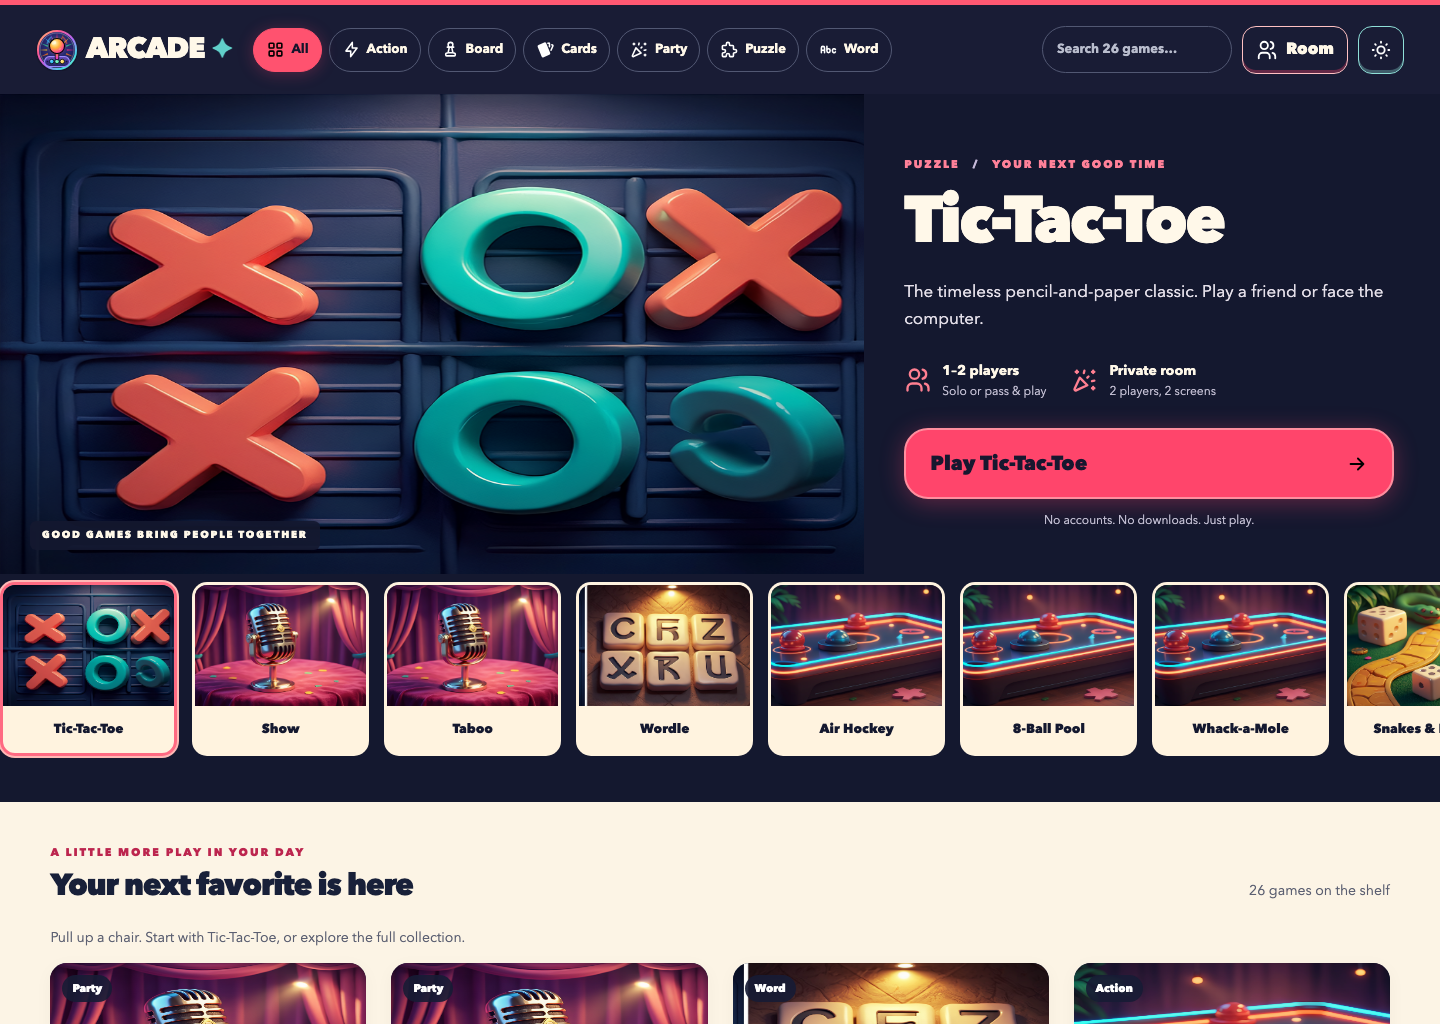
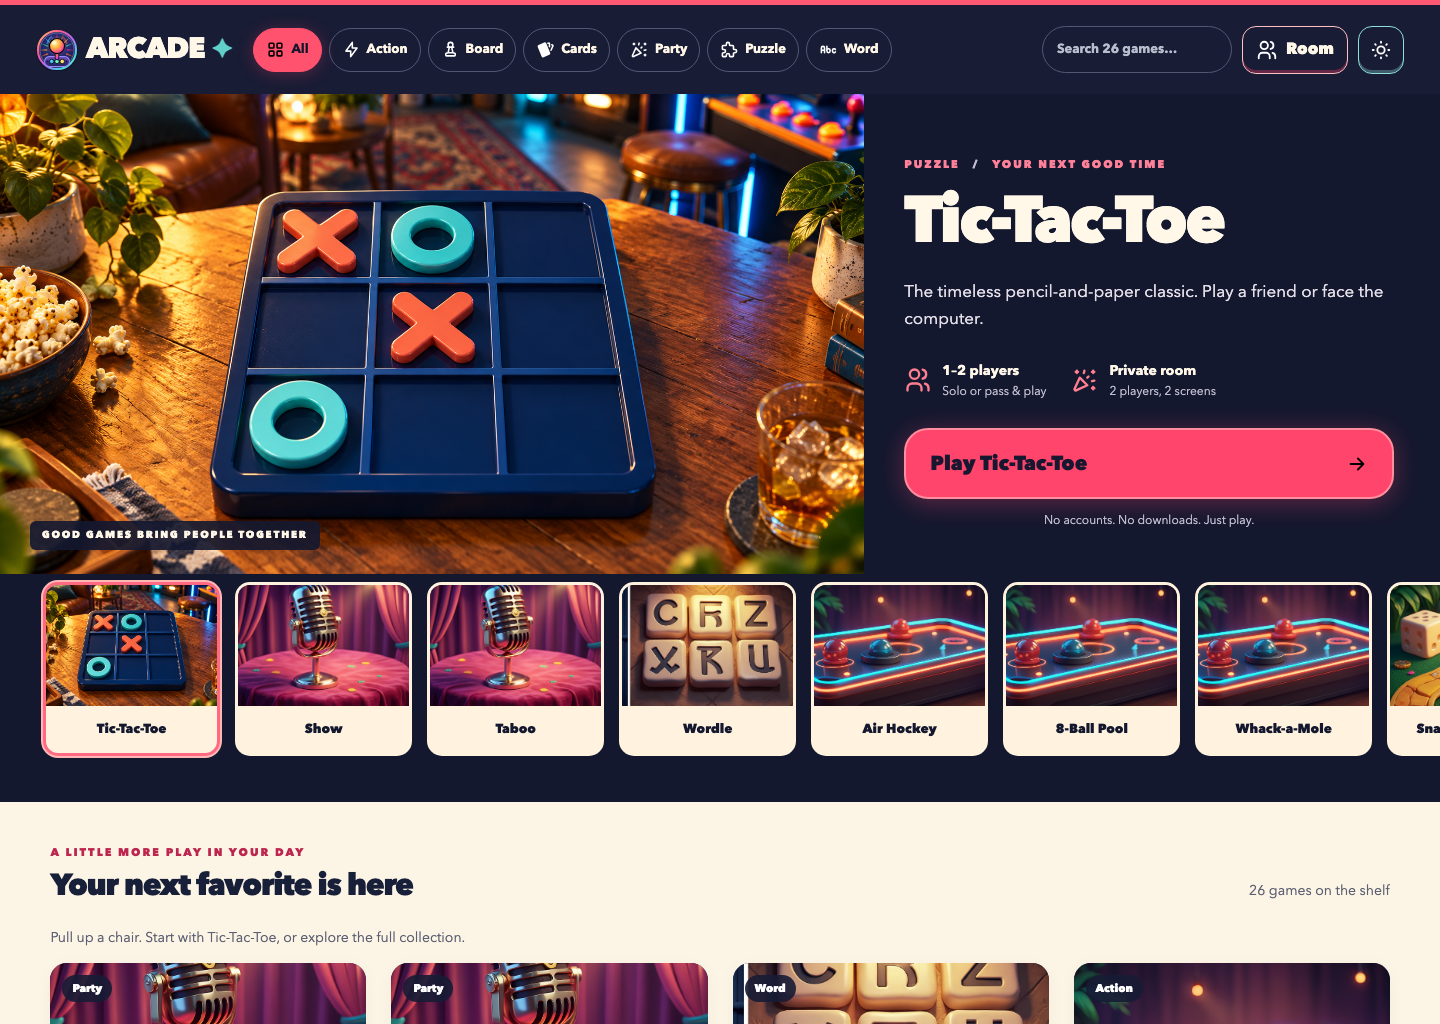
Polish responsive game shelf and record verified visual QA

diff --git a/redesign/src/App.tsx b/redesign/src/App.tsx
@@ -62,7 +62,7 @@ function Catalog({ query, category }: { query: string; category: string }) {
         <section className="showcase" aria-label="Featured game">
           <div className="showcase-scene">
             <div
-              className={`hero-image world world-${game.category}`}
+              className={`hero-image world world-${game.category} ${game.id === 'tictactoe' ? 'ttt-scene' : ''}`}
               role="img"
               aria-label={`${game.category} game world illustration`}
             />
@@ -126,7 +126,9 @@ function Catalog({ query, category }: { query: string; category: string }) {
                   aria-pressed={g.id === game.id}
                   onClick={() => setSelected(g.id)}
                 >
-                  <span className={`shelf-image world world-${g.category}`} />
+                  <span
+                    className={`shelf-image world world-${g.category} ${g.id === 'tictactoe' ? 'ttt-scene' : ''}`}
+                  />
                   <span className="shelf-label">{g.name}</span>
                   {resumable.includes(g.id) && (
                     <span className="saved-dot" aria-label="Saved game" />
@@ -160,7 +162,7 @@ function Catalog({ query, category }: { query: string; category: string }) {
           <div className="continue-row">
             {resumable.map((id) => (
               <Link key={id} to={`/game/${id}`} className="continue-card">
-                <span className="continue-art world world-Puzzle" />
+                <span className="continue-art world world-Puzzle ttt-scene" />
                 <span>
                   <b>{GAMES.find((g) => g.id === id)?.name}</b>
                   <small>Your saved match is ready</small>
@@ -216,7 +218,9 @@ function GameCard({ game, index }: { game: Game; index: number }) {
       to={`/game/${game.id}`}
       style={{ '--card-index': index } as CSSProperties}
     >
-      <div className={`card-image world world-${game.category}`}>
+      <div
+        className={`card-image world world-${game.category} ${game.id === 'tictactoe' ? 'ttt-scene' : ''}`}
+      >
         <span className="card-category">{game.category}</span>
       </div>
       <div className="card-copy">

diff --git a/redesign/checks/browser/foundation.spec.ts b/redesign/checks/browser/foundation.spec.ts
@@ -217,19 +217,47 @@ test('storage denial warns while local gameplay remains playable', async ({
 
 test('responsive shelf and play screens have no overflow, external assets or service worker', async ({
   page,
+  isMobile,
 }) => {
   await page.emulateMedia({ reducedMotion: 'reduce' });
   const external: string[] = [];
   page.on('request', (r) => {
     if (!r.url().startsWith('http://127.0.0.1:')) external.push(r.url());
   });
+  await page.goto('/');
+  if (isMobile) {
+    const play = await page
+      .getByRole('link', { name: 'Play Tic-Tac-Toe', exact: true })
+      .boundingBox();
+    expect(play!.y + play!.height).toBeLessThanOrEqual(
+      await page.evaluate(() => innerHeight),
+    );
+  }
   for (const path of ['/', '/#/game/tictactoe', '/#/room']) {
     await page.goto(path);
+    const layout = await page.evaluate(() => ({
+      width: document.documentElement.scrollWidth,
+      viewport: innerWidth,
+      overflow: [...document.querySelectorAll('header, header > *, main > *')]
+        .filter((el) => el.getBoundingClientRect().right > innerWidth + 1)
+        .map((el) => ({
+          tag: el.tagName,
+          class: el.className,
+          right: el.getBoundingClientRect().right,
+        })),
+    }));
     expect(
-      await page.evaluate(
-        () => document.documentElement.scrollWidth <= innerWidth,
-      ),
-    ).toBe(true);
+      layout.width,
+      JSON.stringify({ path, ...layout }),
+    ).toBeLessThanOrEqual(layout.viewport);
+  }
+  if (isMobile) {
+    await page.goto('/#/game/tictactoe');
+    await page.getByRole('button', { name: 'Start playing' }).click();
+    const board = await page.locator('.ttt-board').boundingBox();
+    expect(board!.y + board!.height).toBeLessThanOrEqual(
+      await page.evaluate(() => innerHeight),
+    );
   }
   expect(
     await page.evaluate(

diff --git a/redesign/src/styles.css b/redesign/src/styles.css
@@ -251,6 +251,11 @@ textarea {
   background-size: 304% auto;
   background-color: #262f4c;
 }
+.ttt-scene {
+  background-image: url('/art/tictactoe-hero.png');
+  background-size: cover;
+  background-position: center;
+}
 .world-Action {
   background-position: 0% 0%;
 }
@@ -964,7 +969,7 @@ label {
     height: 540px;
   }
 }
-@media (max-width: 1250px) {
+@media (max-width: 1400px) {
   .app-header {
     flex-wrap: wrap;
     gap: 15px;
@@ -1138,6 +1143,7 @@ label {
   }
   .showcase-scene {
     height: 160px;
+    grid-row: 2;
   }
   .scene-caption {
     bottom: 14px;
@@ -1146,6 +1152,7 @@ label {
   }
   .showcase-copy {
     padding: 25px 22px 24px;
+    grid-row: 1;
   }
   .showcase h1 {
     font-size: 38px;
@@ -1253,17 +1260,18 @@ label {
   .detail,
   .empty {
     width: calc(100% - 32px);
-    padding-top: 24px;
+    padding-top: 16px;
   }
   .back {
-    margin-bottom: 22px;
+    margin-bottom: 16px;
   }
   .game-heading h1 {
     font-size: 35px;
-    margin-bottom: 16px;
+    margin-bottom: 12px;
   }
   .game-heading .eyebrow {
     font-size: 9px;
+    margin-bottom: 8px;
   }
   .game-heading .quiet {
     font-size: 12px;
@@ -1372,5 +1380,12 @@ label {
   }
   .room-link {
     padding: 8px;
+  }
+  .game-heading h1 {
+    font-size: 27px;
+    white-space: nowrap;
+  }
+  .game-heading .eyebrow {
+    font-size: 8px;
   }
 }

diff --git a/redesign/src/features/Game.tsx b/redesign/src/features/Game.tsx
@@ -166,7 +166,7 @@ function LocalGame() {
             <Help />
           </div>
           <div
-            className="setup-art world world-Puzzle"
+            className="setup-art world world-Puzzle ttt-scene"
             role="img"
             aria-label="Colorful X and O pieces on a game board"
           />

diff --git a/docs/redesign/design-qa.md b/docs/redesign/design-qa.md
@@ -1,5 +1,41 @@
 # Living Game Shelf design QA
 
-Visual comparison in progress.
+**Final result: passed** — no open P0/P1/P2 findings for the first-game milestone.
 
-final result: blocked
+## Visual evidence and normalization
+
+- Source: [approved option 2](../images/redesign-reference.png), 1487 × 1058 pixels. The generation prompt targeted 1440 × 1024; comparison scales the returned raster to that CSS viewport (approximately 0.968×).
+- Implementation: [desktop shelf](../images/redesign-desktop.png), 1440 × 1024 pixels at 1×; [mobile shelf](../images/redesign-mobile.png), 1170 × 1992 pixels at 3×, representing a 390 × 664 CSS viewport.
+- [Combined full-view comparison](../images/redesign-comparison.png) places the normalized reference and browser-rendered implementation together, both with **Air Hockey selected**. The default implementation uses the ready-to-play Tic-Tac-Toe stage.
+- [Focused hero comparison](../images/redesign-detail-comparison.png) compares title, copy, mode information and primary action at the same normalized crop.
+- Active gameplay: [desktop](../images/redesign-game-desktop.png) and [mobile](../images/redesign-game-mobile.png). The mobile board ends at CSS y=652 in the 664px viewport; all nine cells are visible.
+
+The in-app browser was also opened and visually inspected at its narrow panel width. The play action is fully visible before the artwork, and room/theme controls stay on one row.
+
+## Findings resolved and comparison history
+
+1. **P1 — mobile primary action below the first viewport.** Initial capture placed the play button at y=651–709 in a 664px viewport. The mobile layout now puts the actionable game summary before the illustration and reduces the illustration to 160px. The recaptured mobile screen shows the complete play button above the artwork. A browser assertion guards its bottom edge.
+2. **P2 — distorted wide hero.** The family atlas stretched circular pieces into ovals on the desktop stage. Atlas tiles now preserve their native proportions; Tic-Tac-Toe uses a separately generated wide scene with a verified nine-cell board. The current desktop capture shows circular O pieces and a correctly proportioned board.
+3. **P2 — selected game and shelf inset.** The ready game initially sat outside the initial shelf viewport, and scroll snapping consumed its leading padding. Implemented entries sort first on the shelf; scroll padding preserves the inset. The current capture shows the selected Tic-Tac-Toe cover and coral selection ring immediately.
+4. **P2 — mobile last row clipped.** The initial active board ended at y=675. Compact game heading/back-link spacing now brings it to y=652. Gameplay was recaptured and the browser test checks the full board bounds.
+5. **P2 — Linux desktop header overflow.** The first CI run exposed a missed trace of fallback-font width at the 1280px test viewport. The category row now wraps below 1400px. Overflow assertions include measured regions for diagnosis; the desktop 1440px reference layout stays on one row.
+
+## Fidelity surfaces
+
+- **Typography:** a rounded, heavy display hierarchy, small uppercase category labels, and readable 14–18px copy reflect the source. The reference does not identify a licensed font; the implementation uses local Avenir Next/Trebuchet/system fallbacks. Header wrapping accounts for different platform metrics. Headlines remain live text, with no clipping or faux raster text.
+- **Spacing/layout:** a 60/40 illustrated stage, horizontal cover shelf, navy header and cream collection preserve the major regions. Padding and card dimensions are consistent. Mobile reorders the summary before artwork to keep play immediately useful. Secondary configuration/help stays expandable.
+- **Color/tokens:** navy/cream/coral/teal map to shared tokens. Coral selection and play actions, mint O and coral X remain distinct. Automated WCAG A/AA checks report no violations on the tested catalog, setup, board and room screens. Reduced-motion mode removes movement.
+- **Images/icons:** original local raster artwork supplies the stage and six game-family worlds. The wide hero has no placeholder geometry. Existing Arcade branding and Tabler icon assets remain recognizable and retain their credit sources. Image proportions, panel edges and crops were inspected. Family scenes are intentionally shared illustrations, not screenshots of each unported game.
+- **Copy/content:** stable catalog IDs/names/player limits are preserved. The reference's invented Block Blast entry, fake recents and incorrect Air Hockey room counts are omitted. Unported games use an explicit original-Arcade handoff; no unfinished game is presented as playable in the redesign.
+
+## Verification and accepted scope differences
+
+The browser suite covers selection/filter/search, route aliases, local/AI matches, player names, win/reset/rematch, resume/reload, storage denial, room admission, real WebRTC turns, result synchronization and host recovery on Chromium and WebKit. Page errors are checked in catalog and room flows. Navigation disposes pending AI timers. The viewport checks guard overflow, the play action and the entire mobile board.
+
+The source is visual direction, while Phase 2 is the agreed implementation scope: Tic-Tac-Toe is the default ready game; empty recent/resume areas reflect real storage; sound is not shown as a nonfunctional control; the other 25 games remain original-app links. No claim is made of physical-device, audio, offline installation or cross-network qualification.
+
+## Follow-up polish
+
+P3: individual illustrations for the remaining game migrations can replace shared family covers when those games are implemented. Those migrations, full sound/auto-theme and release qualification remain in the [backlog](backlog.md).
+
+final result: passed

diff --git a/docs/redesign/artwork.md b/docs/redesign/artwork.md
@@ -3,7 +3,7 @@
 The [approved Living Game Shelf reference](../images/redesign-reference.png) was option 2 in the design exploration. Its navy stage, coral play action, cream collection area, illustrated horizontal shelf and compact category/room controls ground the implementation.
 
 - `redesign/public/art/game-worlds.png`: Adobe Firefly original artwork, generated for this milestone. Six illustrated family worlds, ordered Action / Board / Cards / Party / Puzzle / Word. Family artwork is intentionally shared by games in that family; it is an illustration rather than a gameplay screenshot.
-- `redesign/public/art/tictactoe-hero.png`: Adobe Firefly original artwork for the first playable game's wide stage.
+- `redesign/public/art/tictactoe-hero.png`: Built-in ImageGen original artwork for the first playable game’s wide stage. Adobe produced incorrect board geometry in two attempts; the replacement was inspected for a nine-cell board and recognizable X/O pieces.
 - `redesign/public/icons/`: existing Arcade branding and existing Tabler icons, copied from `assets/logo.svg` and `assets/icons/tabler/`. Existing attribution and licenses remain in [the credits](../credits.md).
 - `docs/images/redesign-desktop.png` and `redesign-mobile.png`: captures of the actual built app, refreshed with the package capture script.
 

diff --git a/docs/redesign/README.md b/docs/redesign/README.md
@@ -53,6 +53,8 @@ Use a separate preview origin: the redesign deliberately preserves the original 
 
 ![Living Game Shelf on desktop](../images/redesign-desktop.png)
 
-<img src="../images/redesign-mobile.png" alt="Living Game Shelf on mobile" width="320" />
+| Mobile shelf | Mobile match |
+| --- | --- |
+| <img src="../images/redesign-mobile.png" alt="Living Game Shelf on mobile" width="280" /> | <img src="../images/redesign-game-mobile.png" alt="Playable Tic-Tac-Toe on mobile" width="280" /> |
 
 Baseline: [`ae1136d6e544`](https://github.com/venkate5hgunda/arcade/commit/ae1136d6e544784811e5c334ee76d6c54b6921a3). Review branch: `codex/redesign-first-game`, targeting `codex/redesign-foundation`.
